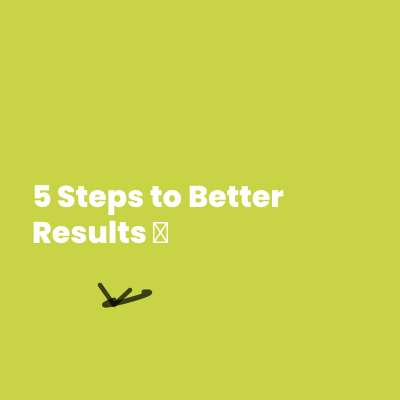
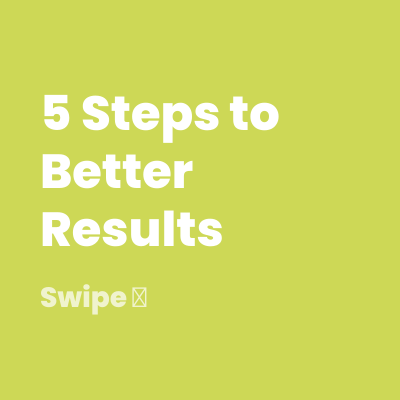
Bigger post type tiles, visual flow guide, fix Gemini env var lookup
Post type tiles:
- Thumbnails enlarged from 48px to 64px for better visibility
- Tactical How-To: clean "5 Steps / Swipe →" without broken arrow
- Data Point: massive centred "76%"
- Poll/Question: "What do you want to ask?"

Visual flow guide:
- 3-step numbered guide above topic input: (1) Choose topic →
  (2) Pick post type → (3) Generate
- Only shows during input state, disappears after generation

Dictation fix attempt:
- Check ALL possible Gemini env var names: GOOGLE_GEMINI_API_KEY,
  Gemini, GEMINI_API_KEY, GEMINI
- Applied to both transcribe.ts and generate-text.ts
- Also reads from company_api_configs database as final fallback

diff --git a/src/components/generate/QuickGenerate.tsx b/src/components/generate/QuickGenerate.tsx
@@ -41,14 +41,14 @@ function MiniPreview({ slug, visualTag, color }: { slug: string; visualTag: stri
         src={sampleSrc}
         alt={visualTag}
         loading="lazy"
-        className="h-12 w-12 rounded-lg object-cover shadow-sm"
+        className="h-16 w-16 rounded-lg object-cover shadow-sm"
       />
     );
   }
 
   // Fallback for any unknown post types
   return (
-    <div className="h-12 w-12 rounded-lg shadow-sm" style={{ backgroundColor: color + "20" }}>
+    <div className="h-16 w-16 rounded-lg shadow-sm" style={{ backgroundColor: color + "20" }}>
       <div className="flex h-full items-center justify-center">
         <div className="h-3 w-3 rounded-full" style={{ backgroundColor: color }} />
       </div>
@@ -856,6 +856,24 @@ export default function QuickGenerate({
             {!selectedPersonId && !showCompanyPicker && (
               <span className="ml-auto rounded bg-gray-200 px-2 py-0.5 text-[10px] font-medium text-gray-600">Company Page</span>
             )}
+          </div>
+
+          {/* Visual flow guide */}
+          <div className="flex items-center justify-center gap-4 py-4 text-xs text-gray-400">
+            <div className="flex items-center gap-2">
+              <span className="flex h-6 w-6 items-center justify-center rounded-full bg-violet-100 text-[10px] font-bold text-violet-600">1</span>
+              <span>Choose a topic</span>
+            </div>
+            <svg className="h-3 w-3 text-gray-300" viewBox="0 0 24 24" fill="none" stroke="currentColor" strokeWidth="2"><path d="M5 12h14M12 5l7 7-7 7" /></svg>
+            <div className="flex items-center gap-2">
+              <span className="flex h-6 w-6 items-center justify-center rounded-full bg-violet-100 text-[10px] font-bold text-violet-600">2</span>
+              <span>Pick a post type</span>
+            </div>
+            <svg className="h-3 w-3 text-gray-300" viewBox="0 0 24 24" fill="none" stroke="currentColor" strokeWidth="2"><path d="M5 12h14M12 5l7 7-7 7" /></svg>
+            <div className="flex items-center gap-2">
+              <span className="flex h-6 w-6 items-center justify-center rounded-full bg-violet-100 text-[10px] font-bold text-violet-600">3</span>
+              <span>Generate</span>
+            </div>
           </div>
 
           {/* Topic input with three-mode selector */}

diff --git a/src/lib/providers/transcription/transcribe.ts b/src/lib/providers/transcription/transcribe.ts
@@ -20,7 +20,13 @@ export async function transcribeAudio(
   companyId?: string
 ): Promise<TranscriptionResult> {
   // Try to get Gemini key from multiple sources
-  let geminiKey = process.env.GOOGLE_GEMINI_API_KEY || process.env.Gemini || "";
+  // Check every possible env var name — Vercel has been inconsistent about which one is visible
+  let geminiKey =
+    process.env.GOOGLE_GEMINI_API_KEY ||
+    process.env.Gemini ||
+    process.env.GEMINI_API_KEY ||
+    process.env.GEMINI ||
+    "";
 
   // If no env var, try to get from company API configs (where image generation stores it)
   if (!geminiKey && companyId) {

diff --git a/src/lib/providers/content-generation/generate-text.ts b/src/lib/providers/content-generation/generate-text.ts
@@ -141,7 +141,7 @@ export async function generateText(
   }
 
   // Try 2: Gemini (Google)
-  const geminiKey = process.env.GOOGLE_GEMINI_API_KEY;
+  const geminiKey = process.env.GOOGLE_GEMINI_API_KEY || process.env.Gemini || process.env.GEMINI_API_KEY || process.env.GEMINI;
   if (geminiKey) {
     try {
       const result = await callGemini(geminiKey, options);
